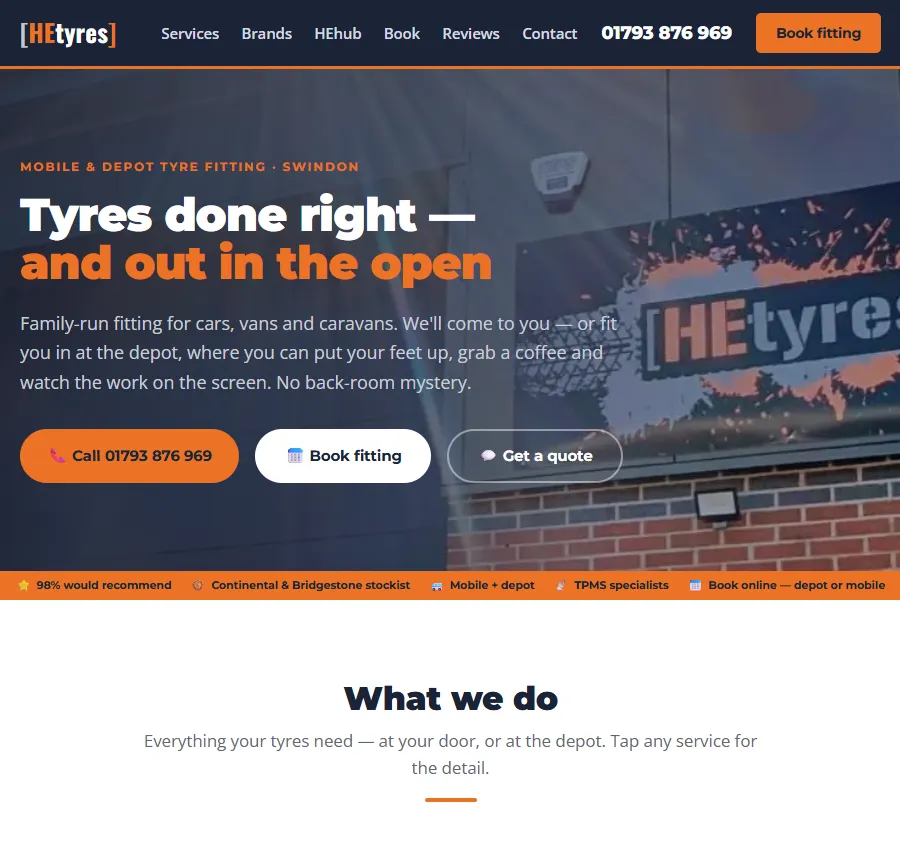
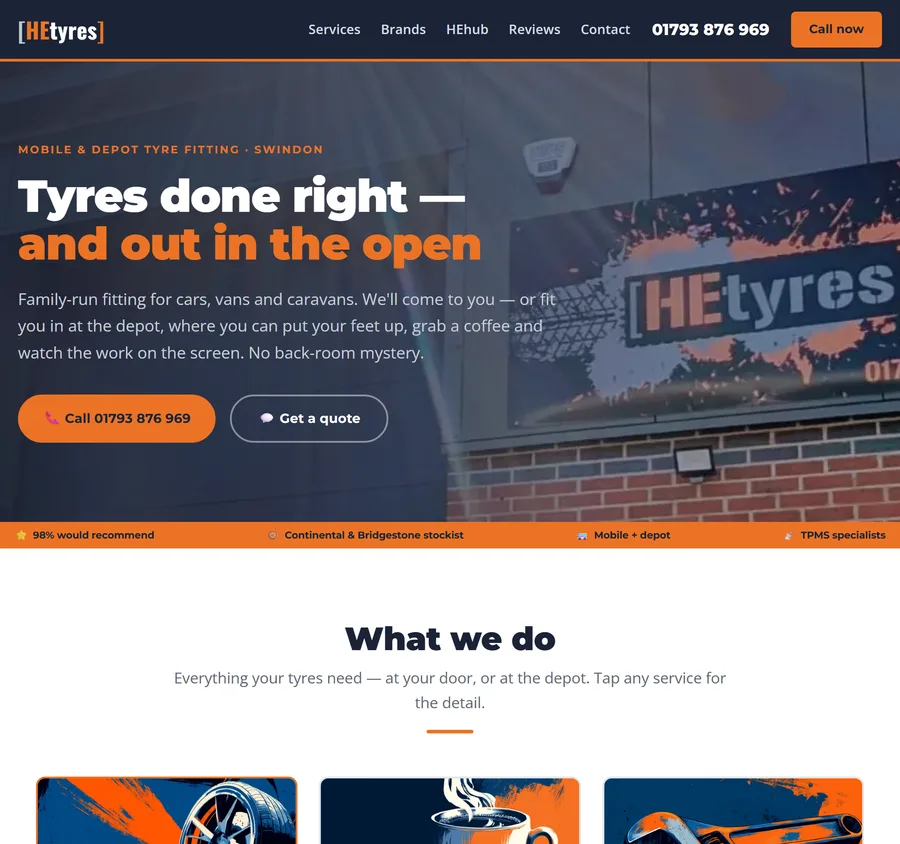
TyreTrust: remove HE Tyres booking mentions, refresh hero screenshots
HE Tyres decided against the booking feature, so sever every place the
TyreTrust pages used HE Tyres as proof that booking/reg look-up runs on
a real site. Booking stays fully sold as a product (Bay 4 Tyres demos
untouched) — only the HE-Tyres-proves-booking links are cut.

- meta/og descriptions: HE Tyres = the site; booking/reg = on-page demos
- bookExampleBox: "HE Tyres running this, booking bolted on" -> honest
  "this is the real booking system, try the live demo below"
- proofP2: drop "they're now trying out the online booking"
- hero subhead + not-built JS fallback: "taking bookings" -> "working"
- proposal.html: "I built it for HE Tyres" -> "I built the website for"
- regenerate hero-hetyres-{900,480,mobile-485}.webp from the current
  booking-free live layout (same sizes/filenames)

diff --git a/tyretrust/full/index.html b/tyretrust/full/index.html
@@ -4,14 +4,14 @@
 <meta charset="UTF-8">
 <meta name="viewport" content="width=device-width, initial-scale=1.0">
 <title>TyreTrust — Websites built only for tyre fitters</title>
-<meta name="description" content="A working website made only for tyre fitters. See a real one running for HE Tyres, try the booking and reg look-up live, then pay me what you think it's worth. Take a look.">
+<meta name="description" content="A working website made only for tyre fitters. See a real one I built for HE Tyres in Swindon, try the booking and reg look-up demos, then pay me what you think it's worth.">
 <link rel="canonical" href="https://tyretrust.uk/full/">
 <meta name="robots" content="noindex, nofollow">
 <!-- Open Graph -->
 <meta property="og:type" content="website">
 <meta property="og:url" content="https://tyretrust.uk/full/">
 <meta property="og:title" content="TyreTrust — Websites built only for tyre fitters">
-<meta property="og:description" content="See a real, working website for a tyre fitter. Try the booking and reg look-up yourself. Pay what you think it's worth.">
+<meta property="og:description" content="See a real, working website I built for a tyre fitter. Try the booking and reg look-up demos yourself. Pay what you think it's worth.">
 <meta property="og:image" content="https://tyretrust.uk/tyretrust/og.webp">
 <meta property="og:image:width" content="1200">
 <meta property="og:image:height" content="630">
@@ -485,7 +485,7 @@
     <div>
       <span class="eyebrow">For tyre fitters — and only tyre fitters</span>
       <h1 id="heroTitle">The website that <em>works</em> while you're under the car.</h1>
-      <p class="hero-sub" id="heroSub">Tyre fitting is what I've specialised in — proper websites built around how your trade actually works. Here's a real one, live and taking bookings right now. Try it, then imagine it wearing your business name.</p>
+      <p class="hero-sub" id="heroSub">Tyre fitting is what I've specialised in — proper websites built around how your trade actually works. Here's a real one, live and working right now. Try it, then imagine it wearing your business name.</p>
       <div class="hero-actions">
         <a class="btn btn-primary" id="heroCta" href="#see-yours">Get yours built — free to look</a>
       </div>
@@ -613,7 +613,7 @@
           </div>
         </div>
         <div class="book-right">
-        <div class="demo-box" id="bookExampleBox" style="margin:0 0 18px" hidden><label>See it running live</label><p style="margin:0;font-size:.95rem;color:var(--body)">HE Tyres in Swindon are running this for real — see it at <b>hetyres.co.uk</b>, with booking bolted straight onto their site.</p></div>
+        <div class="demo-box" id="bookExampleBox" style="margin:0 0 18px" hidden><label>See it working</label><p style="margin:0;font-size:.95rem;color:var(--body)">This is the real booking system — the same one you'd get. Have a go with the live demo just below; nothing here books a real slot.</p></div>
         <div class="try-panel" id="bookPanel">
           <button class="try-head" id="bookToggle" type="button" aria-expanded="false" aria-controls="bookBody">
             <span class="try-head-l"><span class="pulse"></span> Booking demo</span>
@@ -838,7 +838,7 @@
         <span class="eyebrow">Who you'd be dealing with</span>
         <h2>It started with one good tyre business.</h2>
         <p id="proofP1">HE Tyres in Swindon are my first tyre customer, and the reason TyreTrust exists. I walked in as a customer and got looked after properly — coffee on, comfy lounge, a screen showing me exactly what was happening with my car. A business run that well deserved a website to match, so I built them one. It's the site at the top of this page — live at <b>hetyres.co.uk</b> if you want to see it for yourself.</p>
-        <p id="proofP2">They're now trying out the online booking to go with it. The rest of the kit — the look-ups, the reminders, the job board — is built and working, and every piece is on this page for you to try. What I don't have yet is a fitter running the lot, which is exactly why you set the build price: I'd rather prove it in a real tyre bay than keep polishing it on my own.</p>
+        <p id="proofP2">The rest of the kit — the booking, the look-ups, the reminders, the job board — is built and working, and every piece is on this page for you to try. What I don't have yet is a fitter running the lot, which is exactly why you set the build price: I'd rather prove it in a real tyre bay than keep polishing it on my own.</p>
         <p>I'm Nick — I'm building my thing the same way you built yours: one honest job at a time. I'm based in Swindon — a name and a place, not a faceless agency in a call centre.</p>
       </div>
       <div>
@@ -1525,7 +1525,7 @@
     var sub=document.getElementById('heroSub');
     if(sub) sub.textContent = d.built
       ? 'This is a real, finished website I’ve built for ' + d.business + ' — not a mock-up, the actual pages. Have a proper click around, then tell me what you’d change. It only goes live if you’re happy with it.'
-      : 'Here’s a real tyre site, live and taking bookings right now. Picture the same thing wearing the ' + d.business + ' name — I’ll build it for you, free to look at.';
+      : 'Here’s a real tyre site, live and working right now. Picture the same thing wearing the ' + d.business + ' name — I’ll build it for you, free to look at.';
 
     // --- Optional form heading tailoring ---
     var formTitle=document.getElementById('heroFormTitle');
@@ -1565,7 +1565,7 @@
       setTxt('howCard1Body','I’ve put together a real site for your tyre business — services, brands, reviews, contact, the lot — before you’ve paid a penny.');
       // Site-only pitch: drop the "book a fake slot" instruction (that's the booking tier, not The Site).
       setTxt('howCard2Body','Try it on your phone. Read it like one of your customers would. Change your mind about the colours. It’s yours to shape — words, photos, layout.');
-      // The Site example → the prospect's own site; move the HE Tyres reference to the booking tier (that's what it is now).
+      // The Site example → the prospect's own site. The booking box just points at the live demo (no real site runs booking yet).
       setTxt('siteExample','The site at the top of this page is exactly this — a tidy one-page site I’ve built for ' + d.business + '.');
       var bookEx=document.getElementById('bookExampleBox'); if(bookEx) bookEx.hidden=false;
       // Proof section: HE Tyres is no longer "the site at the top" (that's the prospect's now), and drop the booking pitch (Site-only).

diff --git a/tyretrust/index.html b/tyretrust/index.html
@@ -4,13 +4,13 @@
 <meta charset="UTF-8">
 <meta name="viewport" content="width=device-width, initial-scale=1.0">
 <title>TyreTrust — Websites built only for tyre fitters</title>
-<meta name="description" content="A working website made only for tyre fitters. See a real one running for HE Tyres, try the booking and reg look-up live, then pay me what you think it's worth. Take a look.">
+<meta name="description" content="A working website made only for tyre fitters. See a real one I built for HE Tyres in Swindon, try the live booking demo, then pay me what you think it's worth. Take a look.">
 <link rel="canonical" href="https://tyretrust.uk/">
 <!-- Open Graph -->
 <meta property="og:type" content="website">
 <meta property="og:url" content="https://tyretrust.uk/">
 <meta property="og:title" content="TyreTrust — Websites built only for tyre fitters">
-<meta property="og:description" content="See a real, working website for a tyre fitter. Try the booking and reg look-up yourself. Pay what you think it's worth.">
+<meta property="og:description" content="See a real, working website I built for a tyre fitter. Try the live booking demo yourself. Pay what you think it's worth.">
 <meta property="og:image" content="https://tyretrust.uk/tyretrust/og.webp">
 <meta property="og:image:width" content="1200">
 <meta property="og:image:height" content="630">
@@ -481,7 +481,7 @@
     <div>
       <span class="eyebrow">For tyre fitters — and only tyre fitters</span>
       <h1 id="heroTitle">The website that <em>works</em> while you're under the car.</h1>
-      <p class="hero-sub" id="heroSub">Tyre fitting is what I've specialised in — proper websites built around how your trade actually works. Here's a real one, live and taking bookings right now. Try it, then imagine it wearing your business name.</p>
+      <p class="hero-sub" id="heroSub">Tyre fitting is what I've specialised in — proper websites built around how your trade actually works. Here's a real one, live and working right now. Try it, then imagine it wearing your business name.</p>
       <div class="hero-actions">
         <a class="btn btn-primary" id="heroCta" href="#see-yours">Get yours built — free to look</a>
       </div>
@@ -613,7 +613,7 @@
           </div>
         </div>
         <div class="book-right">
-        <div class="demo-box" id="bookExampleBox" style="margin:0 0 18px" hidden><label>See it running live</label><p style="margin:0;font-size:.95rem;color:var(--body)">HE Tyres in Swindon are running this for real — see it at <b>hetyres.co.uk</b>, with booking bolted straight onto their site.</p></div>
+        <div class="demo-box" id="bookExampleBox" style="margin:0 0 18px" hidden><label>See it working</label><p style="margin:0;font-size:.95rem;color:var(--body)">This is the real booking system — the same one you'd get. Have a go with the live demo just below; nothing here books a real slot.</p></div>
         <div class="try-panel" id="bookPanel">
           <button class="try-head" id="bookToggle" type="button" aria-expanded="false" aria-controls="bookBody">
             <span class="try-head-l"><span class="pulse"></span> Booking demo</span>
@@ -760,7 +760,7 @@
         <span class="eyebrow">Who you'd be dealing with</span>
         <h2>It started with one good tyre business.</h2>
         <p id="proofP1">HE Tyres in Swindon are my first tyre customer, and the reason TyreTrust exists. I walked in as a customer and got looked after properly — coffee on, comfy lounge, a screen showing me exactly what was happening with my car. A business run that well deserved a website to match, so I built them one. It's the site at the top of this page — live at <b>hetyres.co.uk</b> if you want to see it for yourself.</p>
-        <p id="proofP2">They're now trying out the online booking alongside it — early days, but working. I'd rather get a second business running it for real than keep tweaking it on my own, which is exactly why you set the build price.</p>
+        <p id="proofP2">I'd rather get a second good tyre business online and out there working than keep polishing sites on my own — which is exactly why, for these first few, you set the build price yourself.</p>
         <p>I'm Nick — I'm building my thing the same way you built yours: one honest job at a time. I'm based in Swindon — a name and a place, not a faceless agency in a call centre.</p>
       </div>
       <div>
@@ -1355,7 +1355,7 @@
     var sub=document.getElementById('heroSub');
     if(sub) sub.textContent = d.built
       ? 'This is a real, finished website I’ve built for ' + d.business + ' — not a mock-up, the actual pages. Have a proper click around, then tell me what you’d change. It only goes live if you’re happy with it.'
-      : 'Here’s a real tyre site, live and taking bookings right now. Picture the same thing wearing the ' + d.business + ' name — I’ll build it for you, free to look at.';
+      : 'Here’s a real tyre site, live and working right now. Picture the same thing wearing the ' + d.business + ' name — I’ll build it for you, free to look at.';
 
     // --- Optional form heading tailoring ---
     var formTitle=document.getElementById('heroFormTitle');
@@ -1427,7 +1427,7 @@
       setTxt('howCard1Body','I’ve put together a real site for your tyre business — services, brands, reviews, contact, the lot — before you’ve paid a penny.');
       // Site-only pitch: drop the "book a fake slot" instruction (that's the booking tier, not The Site).
       setTxt('howCard2Body','Try it on your phone. Read it like one of your customers would. Change your mind about the colours. It’s yours to shape — words, photos, layout.');
-      // The Site example → the prospect's own site; move the HE Tyres reference to the booking tier (that's what it is now).
+      // The Site example → the prospect's own site. The booking box just points at the live demo (no real site runs booking yet).
       setTxt('siteExample','The site at the top of this page is exactly this — a tidy, proper website I’ve built for ' + d.business + '.');
       var bookEx=document.getElementById('bookExampleBox'); if(bookEx) bookEx.hidden=false;
       // Proof section: HE Tyres is no longer "the site at the top" (that's the prospect's now), and drop the booking pitch (Site-only).

diff --git a/tyretrust/proposal.html b/tyretrust/proposal.html
@@ -118,7 +118,7 @@
   </div>
 
   <div class="try-line">
-    <b>See it working first.</b> There's a real, live example at <a href="https://neobookworm.uk/tyretrust">neobookworm.uk/tyretrust</a> — try the booking and reg look-up yourself. I built it for HE Tyres in Swindon; you're welcome to ask them about me.
+    <b>See it working first.</b> There's a real, live example at <a href="https://neobookworm.uk/tyretrust">neobookworm.uk/tyretrust</a> — try the booking and reg look-up demos yourself. I built the website for HE Tyres in Swindon; you're welcome to ask them about me.
   </div>
 
   <div class="tiers">